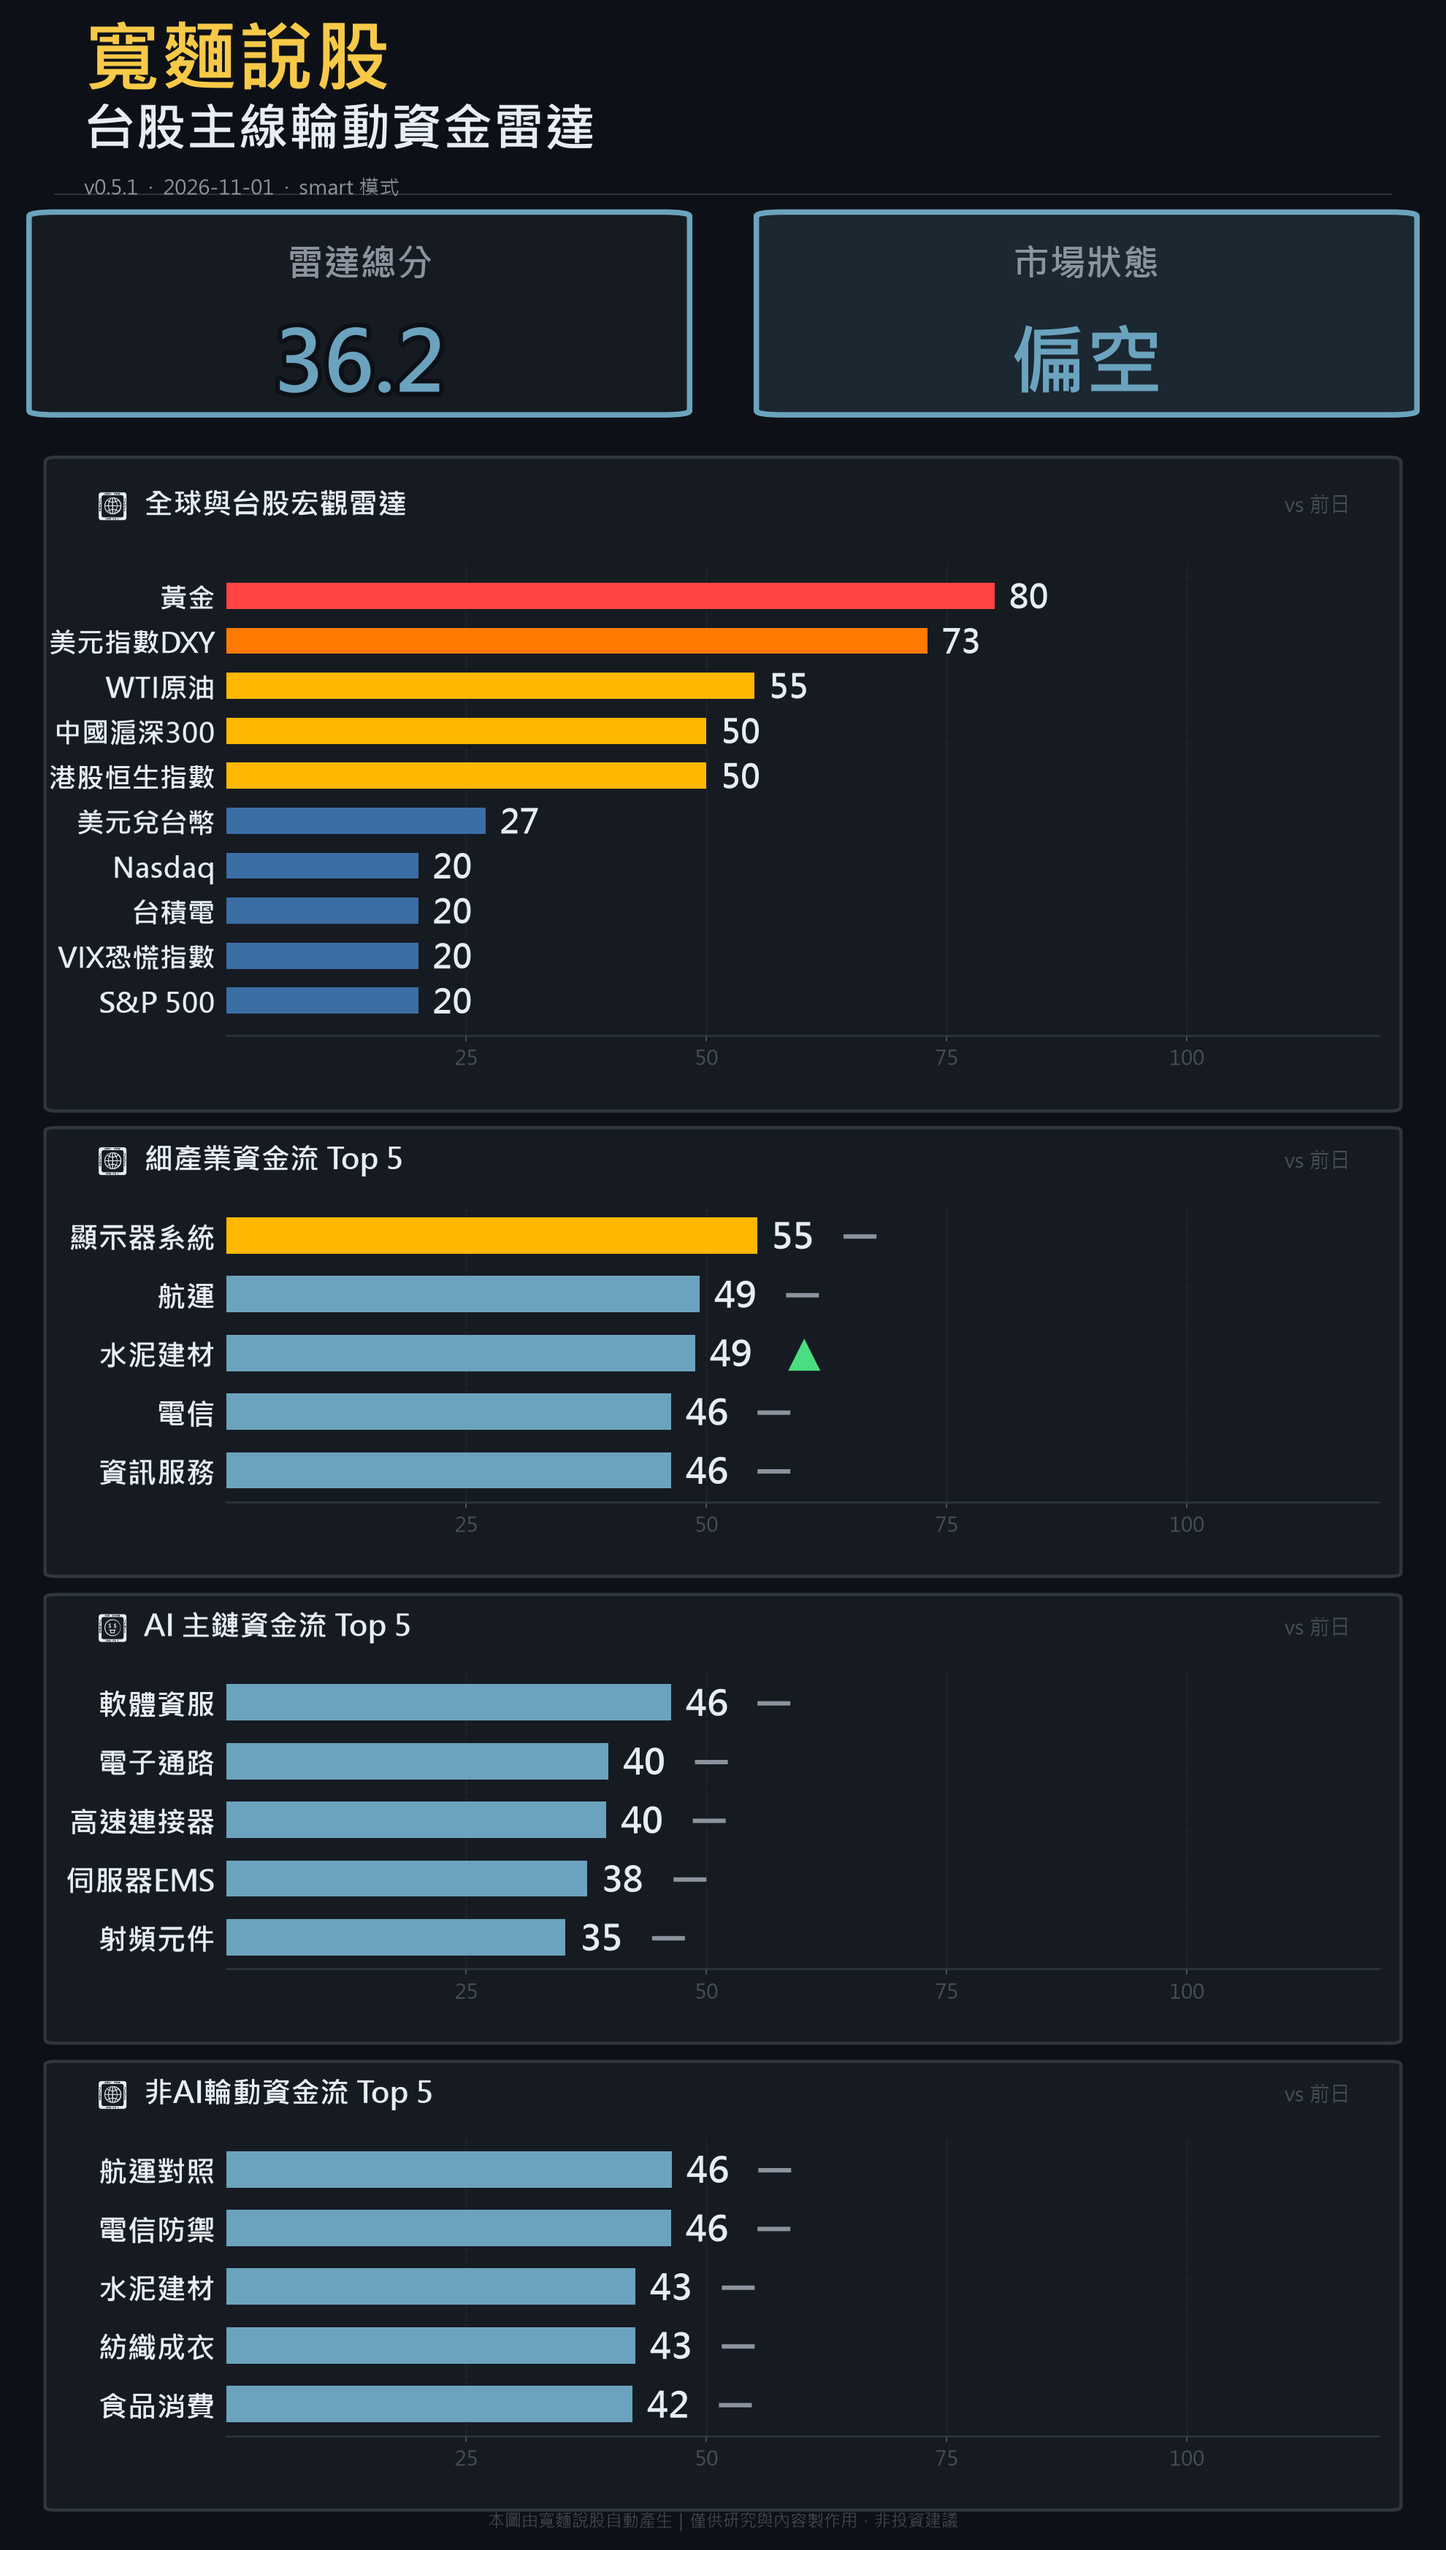
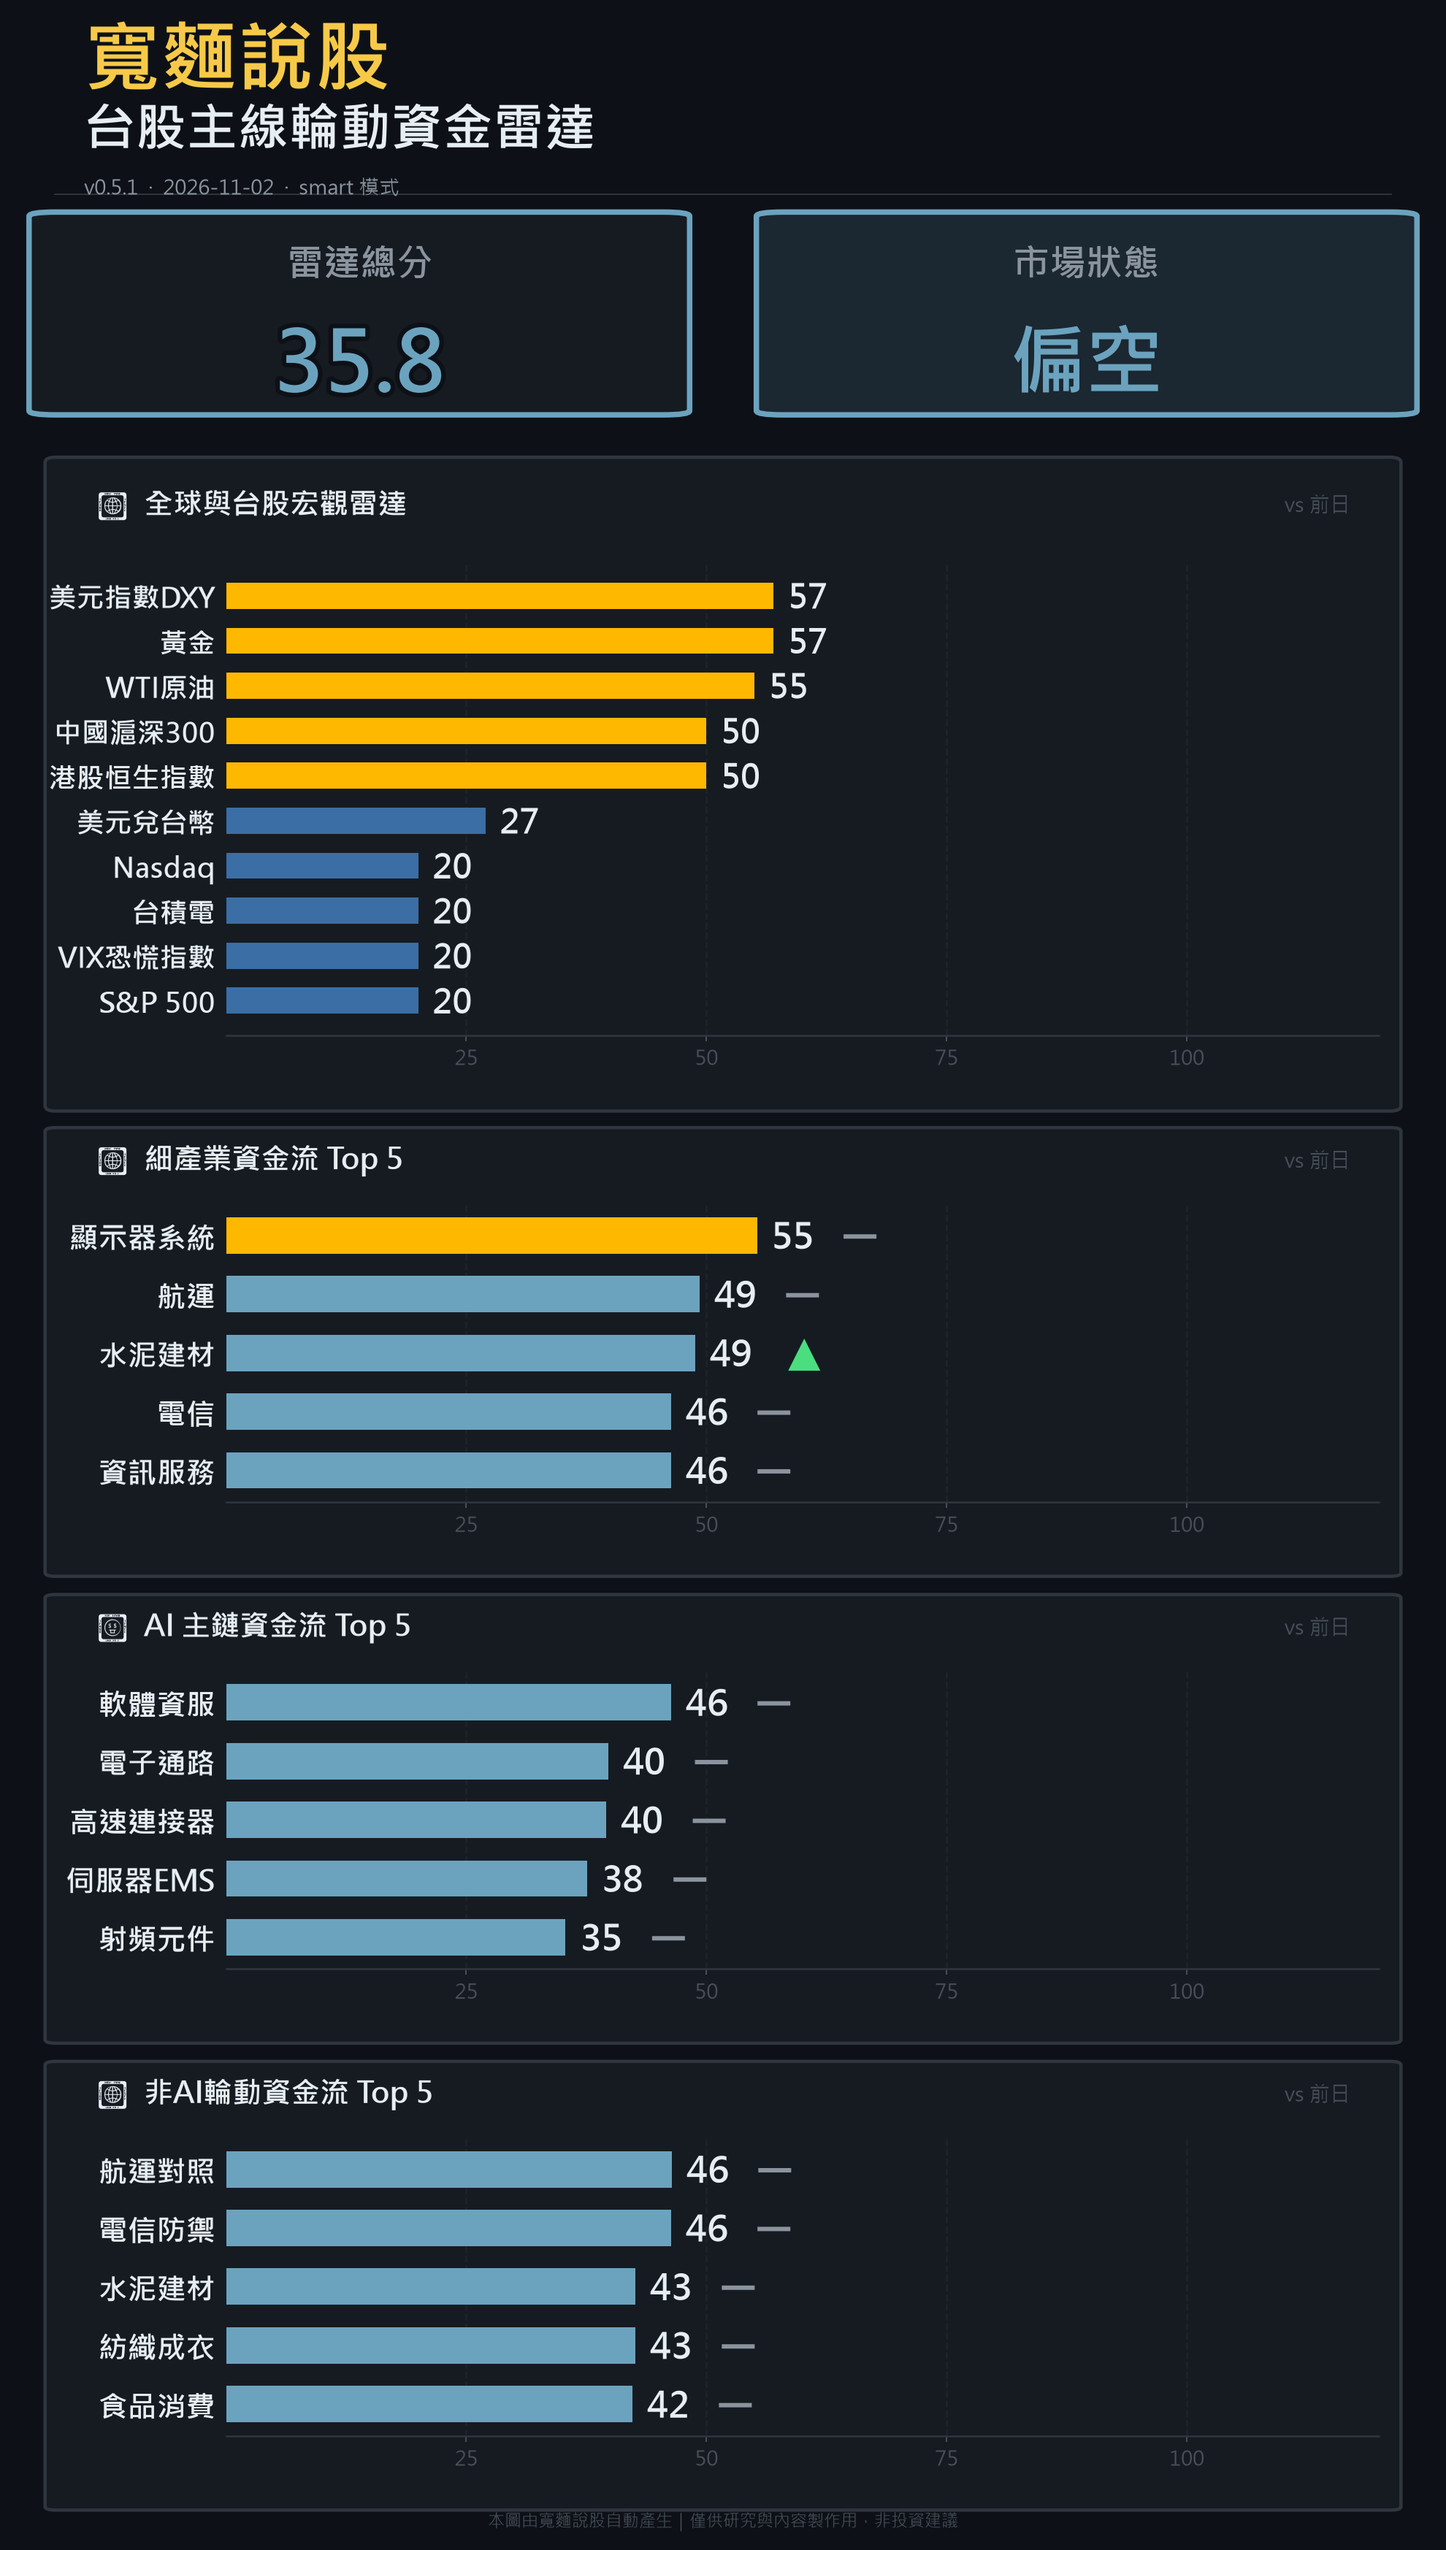
auto update radar chart 週一 2026/11/02  7:28:13.46

Changed region(s): [[0.0308, 0.2185, 0.7086, 0.2809], [0.2773, 0.1249, 0.3081, 0.1561], [0.2157, 0.1249, 0.2465, 0.1561]]

diff --git a/index.html b/index.html
@@ -122,7 +122,7 @@
     <section class="hero">
       <div class="brand">寬麵說股｜股海說書人</div>
       <h1>台股主線輪動資金雷達</h1>
-      <div class="updated">最後更新：2026-11-01 07:28:18</div>
+      <div class="updated">最後更新：2026-11-02 07:28:13</div>
       <div class="notice">
         每日追蹤 AI 主鏈、非AI輪動、宏觀風險與族群資金流。<br>
         本圖卡僅供研究與內容製作用，非投資建議。
@@ -130,11 +130,11 @@
     </section>
 
     <section class="dashboard-wrap">
-      <img class="dashboard" src="dashboard.png?v=20261101" alt="寬麵說股 台股主線輪動資金雷達">
+      <img class="dashboard" src="dashboard.png?v=20261102" alt="寬麵說股 台股主線輪動資金雷達">
     </section>
 
     <div class="actions">
-      <a class="btn" href="dashboard.png?v=20261101" target="_blank">開啟原圖</a>
+      <a class="btn" href="dashboard.png?v=20261102" target="_blank">開啟原圖</a>
     </div>
 
     <div class="footer">
